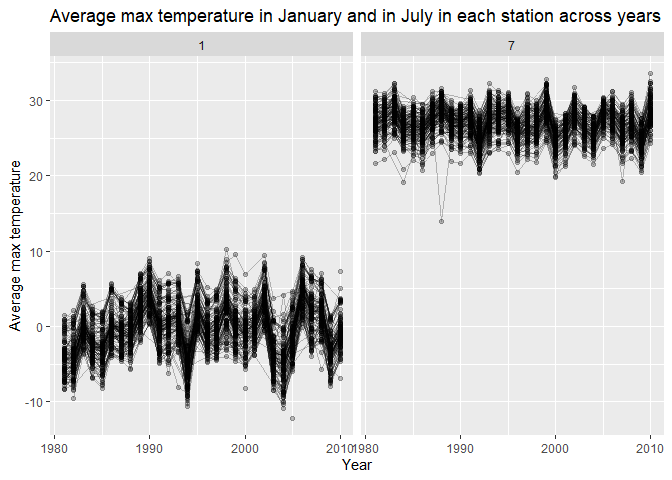
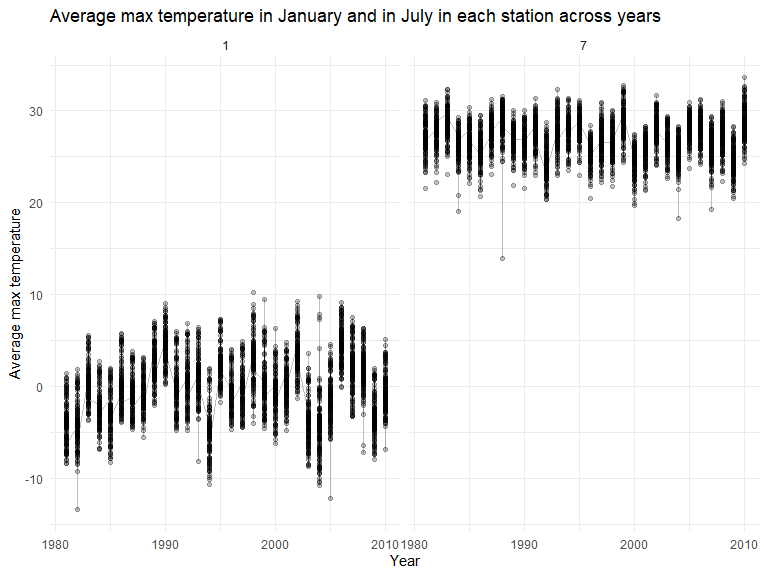
Added answers for Question 1 and edited Question 2&3.

diff --git a/p8105_hw3_wm2460.md b/p8105_hw3_wm2460.md
@@ -5,6 +5,120 @@ Wenyan Ma
 
 ## Problem 1
 
+### Read in the data
+
+``` r
+data("instacart")
+
+instacart = 
+  instacart %>% 
+  as_tibble(instacart)
+```
+
+### Answer questions about the data
+
+This dataset contains 1384617 rows and 15 columns, with each row
+resprenting a single product from an instacart order. Variables include
+identifiers for user, order, and product; the order in which each
+product was added to the cart. There are several order-level variables,
+describing the day and time of the order, and number of days since prior
+order. Then there are several item-specific variables, describing the
+product name (e.g. Yogurt, Avocado), department (e.g. dairy and eggs,
+produce), and aisle (e.g. yogurt, fresh fruits), and whether the item
+has been ordered by this user in the past. In total, there are 39123
+products found in 131209 orders from 131209 distinct users.
+
+Below is a table summarizing the number of items ordered from aisle. In
+total, there are 134 aisles, with fresh vegetables and fresh fruits
+holding the most items ordered by far.
+
+``` r
+instacart %>% 
+  count(aisle) %>% 
+  arrange(desc(n))
+```
+
+    ## # A tibble: 134 × 2
+    ##    aisle                              n
+    ##    <chr>                          <int>
+    ##  1 fresh vegetables              150609
+    ##  2 fresh fruits                  150473
+    ##  3 packaged vegetables fruits     78493
+    ##  4 yogurt                         55240
+    ##  5 packaged cheese                41699
+    ##  6 water seltzer sparkling water  36617
+    ##  7 milk                           32644
+    ##  8 chips pretzels                 31269
+    ##  9 soy lactosefree                26240
+    ## 10 bread                          23635
+    ## # … with 124 more rows
+
+Next is a plot that shows the number of items ordered in each aisle.
+Here, aisles are ordered by ascending number of items.
+
+``` r
+instacart %>% 
+  count(aisle) %>% 
+  filter(n > 10000) %>% 
+  mutate(aisle = fct_reorder(aisle, n)) %>% 
+  ggplot(aes(x = aisle, y = n)) + 
+  geom_point() + 
+  labs(title = "Number of items ordered in each aisle") +
+  theme(axis.text.x = element_text(angle = 60, hjust = 1))
+```
+
+<img src="p8105_hw3_wm2460_files/figure-gfm/unnamed-chunk-3-1.png" width="90%" />
+
+Our next table shows the three most popular items in aisles
+`baking ingredients`, `dog food care`, and `packaged vegetables fruits`,
+and includes the number of times each item is ordered in your table.
+
+``` r
+instacart %>% 
+  filter(aisle %in% c("baking ingredients", "dog food care", "packaged vegetables fruits")) %>%
+  group_by(aisle) %>% 
+  count(product_name) %>% 
+  mutate(rank = min_rank(desc(n))) %>% 
+  filter(rank < 4) %>% 
+  arrange(desc(n)) %>%
+  knitr::kable()
+```
+
+| aisle                      | product_name                                  |    n | rank |
+|:---------------------------|:----------------------------------------------|-----:|-----:|
+| packaged vegetables fruits | Organic Baby Spinach                          | 9784 |    1 |
+| packaged vegetables fruits | Organic Raspberries                           | 5546 |    2 |
+| packaged vegetables fruits | Organic Blueberries                           | 4966 |    3 |
+| baking ingredients         | Light Brown Sugar                             |  499 |    1 |
+| baking ingredients         | Pure Baking Soda                              |  387 |    2 |
+| baking ingredients         | Cane Sugar                                    |  336 |    3 |
+| dog food care              | Snack Sticks Chicken & Rice Recipe Dog Treats |   30 |    1 |
+| dog food care              | Organix Chicken & Brown Rice Recipe           |   28 |    2 |
+| dog food care              | Small Dog Biscuits                            |   26 |    3 |
+
+Finally is a table showing the mean hour of the day at which Pink Lady
+Apples and Coffee Ice Cream are ordered on each day of the week. This
+table has been formatted in an untidy manner for human readers. Pink
+Lady Apples are generally purchased slightly earlier in the day than
+Coffee Ice Cream, with the exception of day 5.
+
+``` r
+instacart %>%
+  filter(product_name %in% c("Pink Lady Apples", "Coffee Ice Cream")) %>%
+  group_by(product_name, order_dow) %>%
+  summarize(mean_hour = mean(order_hour_of_day)) %>%
+  spread(key = order_dow, value = mean_hour) %>%
+  knitr::kable(digits = 2)
+```
+
+    ## `summarise()` has grouped output by 'product_name'. You can override using the
+    ## `.groups` argument.
+
+| product_name     |     0 |     1 |     2 |     3 |     4 |     5 |     6 |
+|:-----------------|------:|------:|------:|------:|------:|------:|------:|
+| Coffee Ice Cream | 13.77 | 14.32 | 15.38 | 15.32 | 15.22 | 12.26 | 13.83 |
+| Pink Lady Apples | 13.44 | 11.36 | 11.70 | 14.25 | 11.55 | 12.78 | 11.94 |
+
 ## Problem 2
 
 ### Step 1: Tidy the dataset
@@ -48,12 +162,26 @@ activity, day_of_week.
 traditional = accel_df %>%
   group_by(week, day) %>%
   summarize(activity_sum = sum(activity)) %>% 
+  arrange(week, desc(activity_sum)) %>%
   pivot_wider(names_from = day,
-              values_from = activity_sum)
+              values_from = activity_sum) %>% 
+  knitr::kable()
 ```
 
     ## `summarise()` has grouped output by 'week'. You can override using the
     ## `.groups` argument.
+
+``` r
+traditional
+```
+
+| week | Sunday |   Friday | Saturday | Thursday | Wednesday |  Tuesday |    Monday |
+|-----:|-------:|---------:|---------:|---------:|----------:|---------:|----------:|
+|    1 | 631105 | 480542.6 |   376254 | 355923.6 |    340115 | 307094.2 |  78828.07 |
+|    2 | 422018 | 568839.0 |   607175 | 474048.0 |    440962 | 423245.0 | 295431.00 |
+|    3 | 467052 | 467420.0 |   382928 | 371230.0 |    468869 | 381507.0 | 685910.00 |
+|    4 | 260617 | 154049.0 |     1440 | 340291.0 |    434460 | 319568.0 | 409450.00 |
+|    5 | 138421 | 620860.0 |     1440 | 549658.0 |    445366 | 367824.0 | 389080.00 |
 
 #### Trend
 
@@ -66,16 +194,17 @@ more than the total activity done during the weeekend.
 accel_df %>% 
   ggplot(aes(x = minute/60, y = activity, color = day)) + 
   geom_line(alpha = .5) +
-  geom_smooth(aes(group = day), se = FALSE) +
   labs(title = "24-hour activity time courses for each day",
        x = "Hour",
        y = "Activity measured by accelerometer") +
   theme_bw()
 ```
 
-    ## `geom_smooth()` using method = 'gam' and formula 'y ~ s(x, bs = "cs")'
+<img src="p8105_hw3_wm2460_files/figure-gfm/single_plot-1.png" width="90%" />
 
-![](p8105_hw3_wm2460_files/figure-gfm/single_plot-1.png)<!-- -->
+``` r
+# or add  geom_smooth(aes(group = day), se = FALSE) + before labs #
+```
 
 #### Patterns
 
@@ -114,8 +243,8 @@ noaa_new = ny_noaa %>%
   mutate(tmax = as.numeric(tmax), 
          tmin = as.numeric(tmin),
          tmin = tmin / 10,
-         tmax = tmax / 10) %>% 
-  filter(prcp >= "0", snow >= "0")
+         tmax = tmax / 10,
+         prcp = prcp / 10) 
 ```
 
 ``` r
@@ -142,8 +271,8 @@ ny_noaa %>%
 #### For snowfall, what are the most commonly observed values? Why?
 
 For snowfall, the most commonly observed values is 0. Because it did not
-snow in most days in New York state. The second most observed value is
-`NA`, which means the value is missing.
+snow most days in New York state during the given timeframe. The second
+most observed value is `NA`, which means the value is missing.
 
 As a note, I believe that mm is an appropriate unit for the `snow`
 variable, therefore I will use the original variable to proceed.
@@ -153,9 +282,9 @@ variable, therefore I will use the original variable to proceed.
 ``` r
 avg_max = noaa_new %>% 
   group_by(id, year, month) %>% 
-  filter(month %in% c(1, 7)) %>% 
-  summarize(mean_tmax = mean(tmax, na.rm = TRUE, color = id)) %>% 
-  ggplot(aes(x = year, y = mean_tmax, group = id)) + 
+  filter(month %in% c("1", "7")) %>% 
+  summarize(mean_tmax = mean(tmax, na.rm = TRUE)) %>% 
+  ggplot(aes(x = year, y = mean_tmax)) + 
     geom_point(alpha = 0.25) + 
     geom_line(alpha = 0.25) + 
     facet_grid(. ~ month) +
@@ -172,18 +301,14 @@ avg_max = noaa_new %>%
 avg_max
 ```
 
-    ## Warning: Removed 5256 rows containing missing values (geom_point).
-
-    ## Warning: Removed 4970 row(s) containing missing values (geom_path).
-
-![](p8105_hw3_wm2460_files/figure-gfm/plot-1.png)<!-- -->
+<img src="p8105_hw3_wm2460_files/figure-gfm/plot-1.png" width="90%" />
 
 #### Is there any observable / interpretable structure? Any outliers?
 
 In my opinion, it is clear that the average max temperature in January
 is much lower than the average max temperature in July. There were some
-outliers for both months, especially for January. There is one outlier
-for July as well.
+outliers for both months, especially for January. Also, there is one
+outlier for July as well.
 
 ### Step 3: Plots for tmin vs tmax and snowfall
 
@@ -199,17 +324,15 @@ vs_p =
 vs_p
 ```
 
-    ## Warning: Removed 896972 rows containing non-finite values (stat_binhex).
-
-![](p8105_hw3_wm2460_files/figure-gfm/tmin_tmax-1.png)<!-- -->
+<img src="p8105_hw3_wm2460_files/figure-gfm/tmin_tmax-1.png" width="90%" />
 
 #### Plot for snowfall
 
 ``` r
 snowfall_p = 
   noaa_new %>% 
-  filter(snow %in% (0:100)) %>% 
   group_by(year) %>% 
+  filter(snow %in% (0:100)) %>% 
   ggplot(aes(x = snow, y = as.factor(year))) +
   geom_density_ridges() +
   labs(title = "Distribution of snowfall values by year", 
@@ -219,9 +342,9 @@ snowfall_p =
 snowfall_p
 ```
 
-    ## Picking joint bandwidth of 1.02
+    ## Picking joint bandwidth of 1.03
 
-![](p8105_hw3_wm2460_files/figure-gfm/snowfall-1.png)<!-- -->
+<img src="p8105_hw3_wm2460_files/figure-gfm/snowfall-1.png" width="90%" />
 
 #### Making the plots into a two-panel plot
 
@@ -229,8 +352,8 @@ snowfall_p
 (vs_p + snowfall_p)
 ```
 
-    ## Warning: Removed 896972 rows containing non-finite values (stat_binhex).
+    ## Picking joint bandwidth of 1.03
 
-    ## Picking joint bandwidth of 1.02
+<img src="p8105_hw3_wm2460_files/figure-gfm/combine_plots-1.png" width="90%" />
 
-![](p8105_hw3_wm2460_files/figure-gfm/combine_plots-1.png)<!-- -->
+### End of HW3
